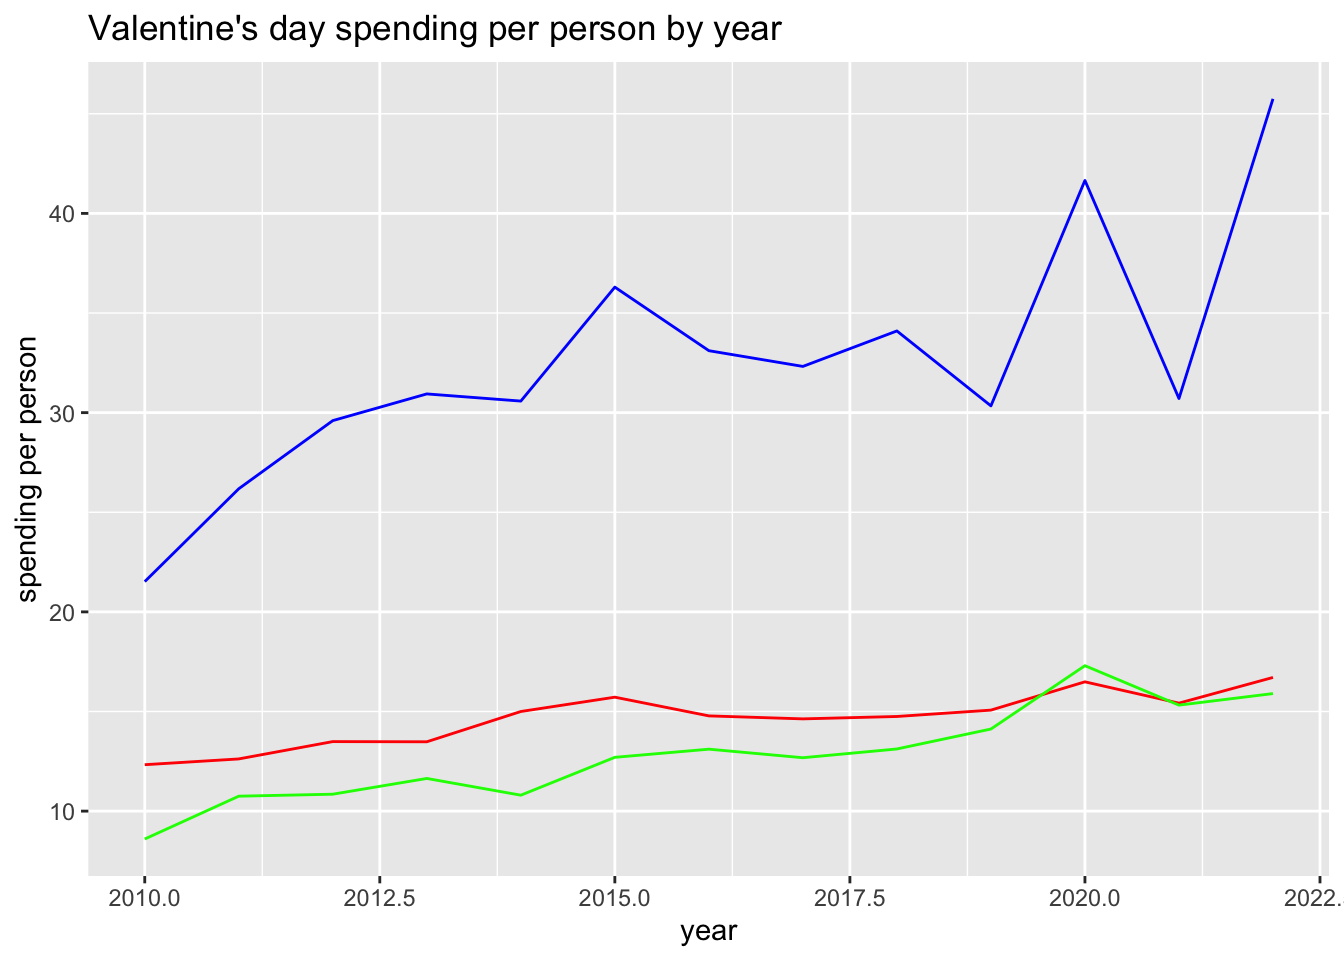
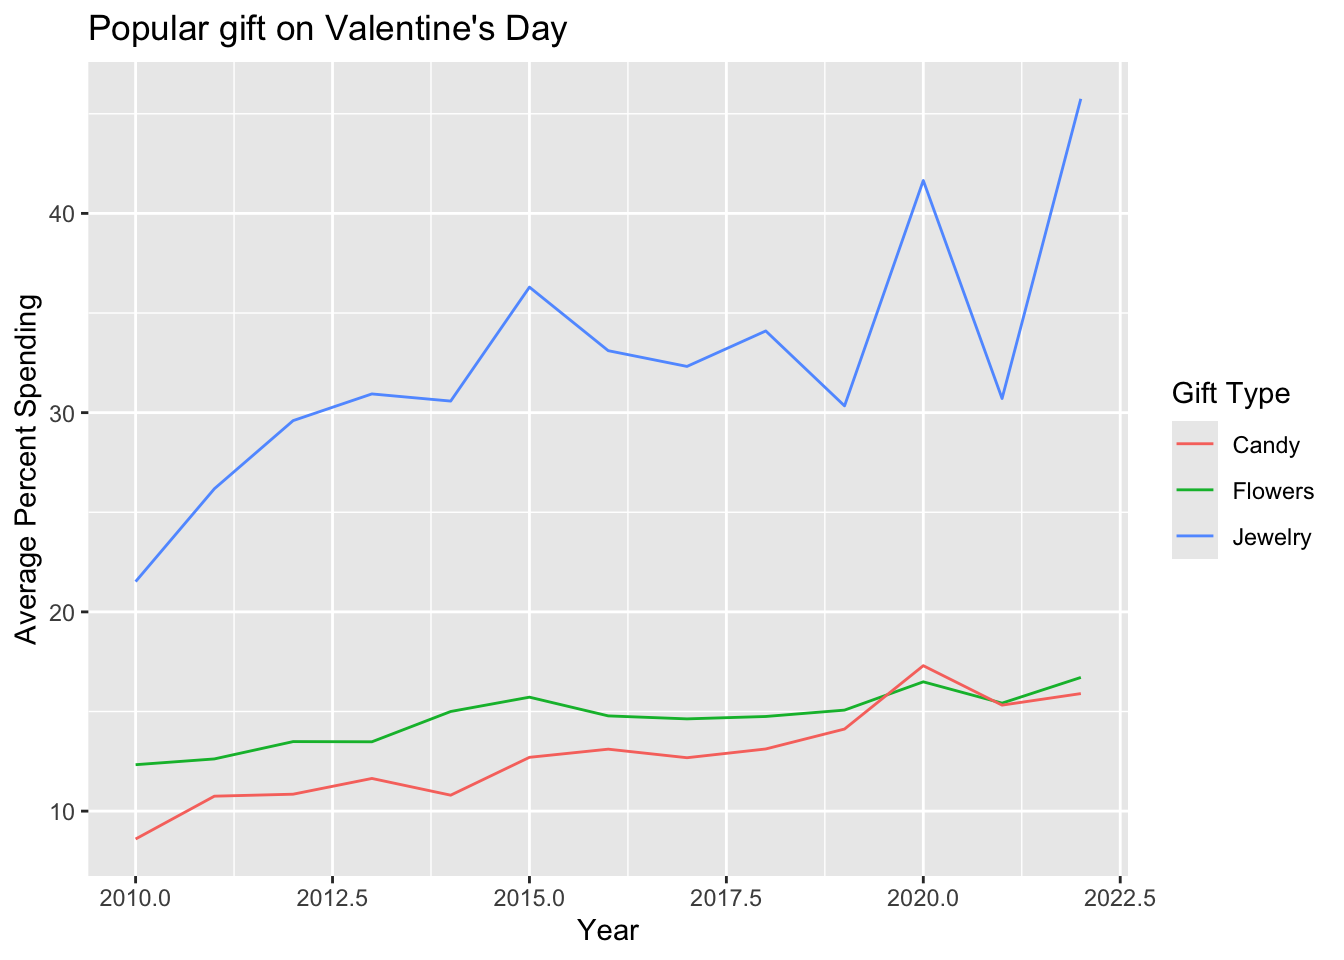
project 2 - render website before commit

diff --git a/docs/valentine.html b/docs/valentine.html
@@ -57,7 +57,27 @@ div.sourceCode
 @media screen {
 pre > code.sourceCode > span > a:first-child::before { text-decoration: underline; }
 }
-</style>
+/* CSS for citations */
+div.csl-bib-body { }
+div.csl-entry {
+  clear: both;
+  margin-bottom: 0em;
+}
+.hanging-indent div.csl-entry {
+  margin-left:2em;
+  text-indent:-2em;
+}
+div.csl-left-margin {
+  min-width:2em;
+  float:left;
+}
+div.csl-right-inline {
+  margin-left:2em;
+  padding-left:1em;
+}
+div.csl-indent {
+  margin-left: 2em;
+}</style>
 
 
 <script src="site_libs/quarto-nav/quarto-nav.js"></script>
@@ -128,21 +148,18 @@ pre > code.sourceCode > span > a:first-child::before { text-decoration: underlin
     <a class="nav-link" href="./about.html"> 
 <span class="menu-text">About Me</span></a>
   </li>  
-  <li class="nav-item dropdown ">
-    <a class="nav-link dropdown-toggle" href="#" id="nav-menu-data-viz" role="link" data-bs-toggle="dropdown" aria-expanded="false">
- <span class="menu-text">Data Viz</span>
-    </a>
-    <ul class="dropdown-menu dropdown-menu-end" aria-labelledby="nav-menu-data-viz">    
-        <li>
-    <a class="dropdown-item" href="./simpsons.html">
- <span class="dropdown-text">Simpsons</span></a>
+  <li class="nav-item">
+    <a class="nav-link" href="./simpsons.html"> 
+<span class="menu-text">Data Viz</span></a>
   </li>  
-        <li>
-    <a class="dropdown-item" href="./valentine.html">
- <span class="dropdown-text">Valentine’s Day</span></a>
+  <li class="nav-item">
+    <a class="nav-link active" href="./valentine.html" aria-current="page"> 
+<span class="menu-text">Valentine’s Day</span></a>
   </li>  
-    </ul>
-  </li>
+  <li class="nav-item">
+    <a class="nav-link" href="./theoffice.html"> 
+<span class="menu-text">The Office</span></a>
+  </li>  
 </ul>
           </div> <!-- /navcollapse -->
             <div class="quarto-navbar-tools">
@@ -232,14 +249,16 @@ pre > code.sourceCode > span > a:first-child::before { text-decoration: underlin
 </div>
 <div class="cell">
 <div class="sourceCode cell-code" id="cb6"><pre class="sourceCode r code-with-copy"><code class="sourceCode r"><span id="cb6-1"><a href="#cb6-1" aria-hidden="true" tabindex="-1"></a><span class="co"># popular gift on valentine's day by year </span></span>
-<span id="cb6-2"><a href="#cb6-2" aria-hidden="true" tabindex="-1"></a> <span class="fu">ggplot</span>(historical_spending, <span class="fu">aes</span>(<span class="at">x =</span> Year)) <span class="sc">+</span></span>
-<span id="cb6-3"><a href="#cb6-3" aria-hidden="true" tabindex="-1"></a>      <span class="fu">geom_line</span>(<span class="fu">aes</span>(<span class="at">y =</span> Flowers), <span class="at">color =</span> <span class="st">'red'</span>) <span class="sc">+</span></span>
-<span id="cb6-4"><a href="#cb6-4" aria-hidden="true" tabindex="-1"></a>      <span class="fu">geom_line</span>(<span class="fu">aes</span>(<span class="at">y =</span> Candy), <span class="at">color =</span> <span class="st">'green'</span>) <span class="sc">+</span></span>
-<span id="cb6-5"><a href="#cb6-5" aria-hidden="true" tabindex="-1"></a>      <span class="fu">geom_line</span>(<span class="fu">aes</span>(<span class="at">y =</span> Jewelry), <span class="at">color =</span> <span class="st">'blue'</span>) <span class="sc">+</span></span>
-<span id="cb6-6"><a href="#cb6-6" aria-hidden="true" tabindex="-1"></a>      <span class="fu">labs</span>(</span>
-<span id="cb6-7"><a href="#cb6-7" aria-hidden="true" tabindex="-1"></a>        <span class="at">x =</span> <span class="st">"year"</span>,</span>
-<span id="cb6-8"><a href="#cb6-8" aria-hidden="true" tabindex="-1"></a>        <span class="at">y =</span> <span class="st">"spending per person"</span>,</span>
-<span id="cb6-9"><a href="#cb6-9" aria-hidden="true" tabindex="-1"></a>        <span class="at">title =</span> <span class="st">"Valentine's day spending per person by year"</span>)</span></code><button title="Copy to Clipboard" class="code-copy-button"><i class="bi"></i></button></pre></div>
+<span id="cb6-2"><a href="#cb6-2" aria-hidden="true" tabindex="-1"></a></span>
+<span id="cb6-3"><a href="#cb6-3" aria-hidden="true" tabindex="-1"></a> <span class="fu">ggplot</span>(historical_spending, <span class="fu">aes</span>(<span class="at">x =</span> Year)) <span class="sc">+</span></span>
+<span id="cb6-4"><a href="#cb6-4" aria-hidden="true" tabindex="-1"></a>  <span class="fu">geom_line</span>(<span class="fu">aes</span>(<span class="at">y =</span> Flowers, <span class="at">color =</span> <span class="st">"Flowers"</span>)) <span class="sc">+</span></span>
+<span id="cb6-5"><a href="#cb6-5" aria-hidden="true" tabindex="-1"></a>  <span class="fu">geom_line</span>(<span class="fu">aes</span>(<span class="at">y =</span> Candy, <span class="at">color =</span> <span class="st">"Candy"</span>)) <span class="sc">+</span></span>
+<span id="cb6-6"><a href="#cb6-6" aria-hidden="true" tabindex="-1"></a>  <span class="fu">geom_line</span>(<span class="fu">aes</span>(<span class="at">y =</span> Jewelry, <span class="at">color =</span> <span class="st">"Jewelry"</span>)) <span class="sc">+</span></span>
+<span id="cb6-7"><a href="#cb6-7" aria-hidden="true" tabindex="-1"></a>  <span class="fu">labs</span>(</span>
+<span id="cb6-8"><a href="#cb6-8" aria-hidden="true" tabindex="-1"></a>    <span class="at">x =</span> <span class="st">"Year"</span>,</span>
+<span id="cb6-9"><a href="#cb6-9" aria-hidden="true" tabindex="-1"></a>    <span class="at">y =</span> <span class="st">"Average Percent Spending"</span>,</span>
+<span id="cb6-10"><a href="#cb6-10" aria-hidden="true" tabindex="-1"></a>    <span class="at">title =</span> <span class="st">"Popular gift on Valentine's Day"</span>,</span>
+<span id="cb6-11"><a href="#cb6-11" aria-hidden="true" tabindex="-1"></a>    <span class="at">color =</span> <span class="st">"Gift Type"</span>)</span></code><button title="Copy to Clipboard" class="code-copy-button"><i class="bi"></i></button></pre></div>
 <div class="cell-output-display">
 <div>
 <figure class="figure">
@@ -248,10 +267,29 @@ pre > code.sourceCode > span > a:first-child::before { text-decoration: underlin
 </div>
 </div>
 </div>
+<p><span class="citation" data-cites="tidytuesdayR">(<a href="#ref-tidytuesdayR" role="doc-biblioref">Harmon and Hughes 2024</a>)</span></p>
+<div class="callout callout-style-default callout-note no-icon callout-titled">
+<div class="callout-header d-flex align-content-center">
+<div class="callout-icon-container">
+<i class="callout-icon no-icon"></i>
+</div>
+<div class="callout-title-container flex-fill">
+Note
+</div>
+</div>
+<div class="callout-body-container callout-body">
+<p>Original data from <a href="https://www.kaggle.com/datasets/infinator/happy-valentines-day-2022" class="uri">https://www.kaggle.com/datasets/infinator/happy-valentines-day-2022</a></p>
+</div>
+</div>
 
 
 
-</main> <!-- /main -->
+
+<div id="quarto-appendix" class="default"><section class="quarto-appendix-contents" role="doc-bibliography" id="quarto-bibliography"><h2 class="anchored quarto-appendix-heading">References</h2><div id="refs" class="references csl-bib-body hanging-indent" data-entry-spacing="0" role="list">
+<div id="ref-tidytuesdayR" class="csl-entry" role="listitem">
+Harmon, Jon, and Ellis Hughes. 2024. <span>“tidytuesdayR: Access the Weekly ’TidyTuesday’ Project Dataset.”</span> <a href="https://CRAN.R-project.org/package=tidytuesdayR">https://CRAN.R-project.org/package=tidytuesdayR</a>.
+</div>
+</div></section></div></main> <!-- /main -->
 <script id="quarto-html-after-body" type="application/javascript">
 window.document.addEventListener("DOMContentLoaded", function (event) {
   const toggleBodyColorMode = (bsSheetEl) => {
